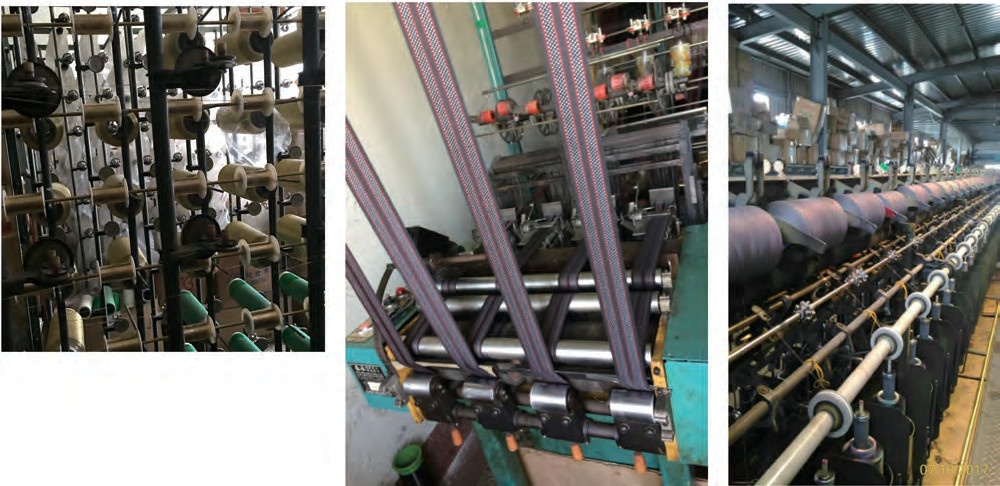
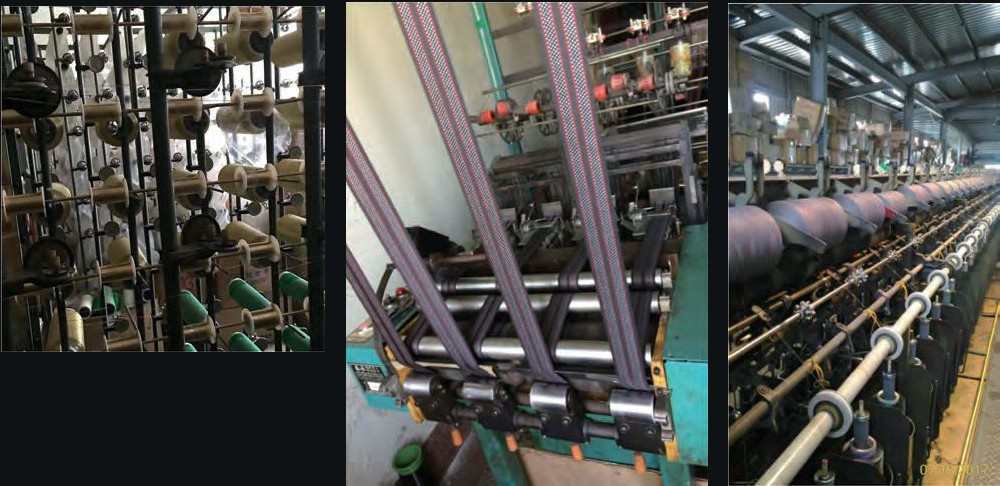
fix: repaint the factory strip's page ground to the figure background
The three factory photographs under "Weaving since 1999" were laid out on white
paper in the catalog, and that paper came with them. On a near-black page the
gutters between the panels, and the block under the shorter left panel, read as
white bars.

Each photograph is re-composited untouched, at its original position and scale,
onto the figure's own background colour — --c-raised, #0F1213, which is what
ArchiveFigure already paints behind the image, so the gutters now vanish into the
panel instead of cutting it into three.

Only the paper changed. No pixel of any photograph was altered, recoloured or
generated, and provenance.json records that explicitly rather than leaving a
silent edit for someone to find later.

Edges needed tightening by 1-6px per side, measured per edge rather than guessed:
the white ground had left a JPEG halo around each panel, and a uniform inset
either left a bright fringe on one side or cropped real content on another. A
first attempt with a flat 2px inset left a visible white line along two edges of
the left panel — caught by zooming the corner, not by the measurement, which had
already dropped to 0.94%.

Tightens the homepage guard from 25% to 10% near-white. 25% was too loose and had
been set for the wrong reason: high enough to let this strip's 14.3% through, on
the theory that a tightly packed composite was fine. It was not. The highest
homepage figure is now the trade-show photo at 1.1%, so 10% keeps an order of
[…]

Changed region(s): [[0.0, 0.0, 1.0, 1.0]]

diff --git a/tests/imagery.test.ts b/tests/imagery.test.ts
@@ -39,7 +39,7 @@ function allProvenance(): Record<string, { aiGenerated: boolean }> {
  * caught nothing. The homepage is where the composite actually hurt.
  */
 describe('the homepage ships photographs, not catalog page ground', () => {
-  it('keeps every homepage figure under a quarter blank page', async () => {
+  it('keeps every homepage figure under a tenth blank page', async () => {
     const sharp = (await import('sharp')).default;
     const html = readFileSync(join(DIST, 'index.html'), 'utf8');
 
@@ -63,13 +63,18 @@ describe('the homepage ships photographs, not catalog page ground', () => {
         if (data[o] >= 242 && data[o + 1] >= 242 && data[o + 2] >= 242) near++;
       }
       const pct = (100 * near) / (info.width * info.height);
-      if (pct >= 25) measured.push({ src, white: `${pct.toFixed(1)}%` });
+      if (pct >= 10) measured.push({ src, white: `${pct.toFixed(1)}%` });
     }
 
-    // 25% sits above the honest headroom and below the defect. The three-panel CMY
-    // composite measured 33.8%; the factory strip, which is also a composite but a
-    // tightly packed one, measures 14.3% and is fine. Both numbers were read off the
-    // build, not guessed.
+    // Was 25%, and that was too loose: it had been set just high enough to let the
+    // factory strip's 14.3% through on the theory that a tightly packed composite was
+    // fine. It was not — the gutters between its three photographs read as white bars on
+    // a near-black page, which is the same defect at a smaller scale.
+    //
+    // 10% is the honest line now that every homepage figure has had its page ground
+    // dealt with: the highest of the three is the trade-show photo at 1.1%, so there is
+    // an order of magnitude of headroom for a legitimately bright photograph before this
+    // fires. Every number here was read off the build.
     expect(measured, `homepage figures that are mostly blank page:\n${JSON.stringify(measured, null, 2)}`)
       .toEqual([]);
   });
